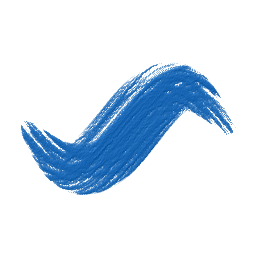
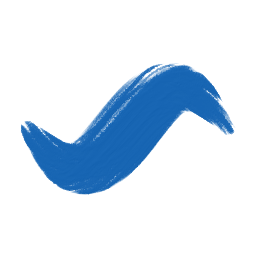
feat(Painter 11/10, família C): os presets do óleo com os valores do dono e o Spacing do Tuning fora do painel
- Oil Bristle · Acrylic Round · Express Oil com os valores afinados a olho pelo dono contra o Rebelle (cerdas,
  pigmento, relevo, opacidade, água, Spacing do Stroke 0,01); Receita.spacing; os outros nove ao byte
- Knob::Spacing → Hidden (no produto a distância entre marcas é o Spacing do Stroke; 8 × 2 = imagem idêntica,
  0,5 = 0,1 %); o rótulo órfão sai do i18n; o painel conta 36
- midias_de_fabrica: saem as três métricas que reprovavam os valores do dono (decisão dele, 18 §2)
- Bugs #48 (o relevo some ao trocar de pincel) e #49 (azul sobre azul verde no soltar) registados
- pranchas PH2D × Rebelle (comparar_oleo/) + ferramentas/prancha_comparar.sh; prompt 22; typos: metricas

diff --git a/crates/ph2d-tool-painter/tests/it/receitas_de_fabrica.rs b/crates/ph2d-tool-painter/tests/it/receitas_de_fabrica.rs
@@ -47,6 +47,8 @@ pub struct Receita {
     pub extras: &'static [(&'static str, f64)],
     /// O grão do pincel (`BrushSpec::texture`, que toma o lugar das cerdas — W2.4): o tipo e o lado.
     pub grao: Option<(&'static str, f64)>,
+    /// O Spacing do Stroke (`BrushSpec::spacing`, fracção do diâmetro) que o preset FIXA; `None` = o padrão.
+    pub spacing: Option<f64>,
 }
 
 /// A tela direita, com o dial guardado no meio e para baixo (para quando o artista a ligar).
@@ -75,6 +77,7 @@ pub const RECEITAS: [Receita; PRESETS_DE_FABRICA] = [
         size_px: None,
         extras: &[],
         grao: None,
+        spacing: None,
     },
     Receita {
         meio: "Watercolor",
@@ -94,6 +97,7 @@ pub const RECEITAS: [Receita; PRESETS_DE_FABRICA] = [
         size_px: None,
         extras: &[],
         grao: None,
+        spacing: None,
     },
     Receita {
         meio: "Watercolor",
@@ -113,6 +117,7 @@ pub const RECEITAS: [Receita; PRESETS_DE_FABRICA] = [
         size_px: None,
         extras: &[],
         grao: None,
+        spacing: None,
     },
     Receita {
         meio: "Watercolor",
@@ -136,6 +141,7 @@ pub const RECEITAS: [Receita; PRESETS_DE_FABRICA] = [
         size_px: None,
         extras: &[],
         grao: None,
+        spacing: None,
     },
     // ⭐ O 1.º da Fase C (prompt 17, 05 §4b «Presets de todas as mídias»): o Liner do Rebelle
     // (`Watercolor/Liner`: duro, carregado, papel 0,10 — o grão quase não fura, 28,86 px). Medido contra
@@ -158,6 +164,7 @@ pub const RECEITAS: [Receita; PRESETS_DE_FABRICA] = [
         size_px: Some(29.0),
         extras: &[],
         grao: None,
+        spacing: None,
     },
     // ⭐ O 2.º lote (11/10, depois da reavaliação pedida pelo dono — 18 §3: pigmento alto, o relevo de volta
     // e o grão no lugar das cerdas). Cada um medido contra a foto do seu preset-oráculo do Rebelle, seco, à
@@ -167,7 +174,7 @@ pub const RECEITAS: [Receita; PRESETS_DE_FABRICA] = [
         meio: "Oil",
         grupo: "Bristle",
         nome: "Oil Bristle",
-        water: 0.05,
+        water: 0.1,
         opacity: 1.0,
         pigment: 2000.0,
         pickup: 1.0,
@@ -175,12 +182,13 @@ pub const RECEITAS: [Receita; PRESETS_DE_FABRICA] = [
         evaporation: 1.0,
         edge: 0.0,
         tilt: DIREITA,
-        bristle_size: 4.0,
-        bristle_count: 1500.0,
+        bristle_size: 1.0,
+        bristle_count: 2000.0,
         hardness: 0.9,
         size_px: Some(103.0),
-        extras: &[("felt", 0.0), ("bristleStrength", 2.0), ("emboss", 2.0)],
+        extras: &[("felt", 0.0), ("bristleStrength", 2.0), ("emboss", 0.7)],
         grao: None,
+        spacing: Some(0.01),
     },
     // Oil & Acrylic › Round Hard (a acrílica do Rebelle é esta ferramenta).
     Receita {
@@ -188,39 +196,41 @@ pub const RECEITAS: [Receita; PRESETS_DE_FABRICA] = [
         grupo: "Round",
         nome: "Acrylic Round",
         water: 0.05,
-        opacity: 1.0,
-        pigment: 2000.0,
+        opacity: 0.6,
+        pigment: 500.0,
         pickup: 1.0,
         gate: 0.0,
         evaporation: 1.0,
         edge: 0.0,
         tilt: DIREITA,
-        bristle_size: 3.0,
-        bristle_count: 800.0,
+        bristle_size: 0.5,
+        bristle_count: 4000.0,
         hardness: 0.5,
         size_px: Some(78.0),
-        extras: &[("felt", 0.0), ("bristleStrength", 4.0)],
+        extras: &[("felt", 0.0), ("bristleStrength", 2.0)],
         grao: None,
+        spacing: Some(0.01),
     },
     // Express Oil › Hairy: cerdas finas, menos tinta.
     Receita {
         meio: "ExpressOil",
         grupo: "Round",
         nome: "Express Oil",
-        water: 0.1,
-        opacity: 1.0,
-        pigment: 800.0,
+        water: 0.09,
+        opacity: 0.6,
+        pigment: 750.0,
         pickup: 1.0,
         gate: 0.0,
         evaporation: 1.0,
         edge: 0.0,
         tilt: DIREITA,
-        bristle_size: 1.2,
+        bristle_size: 2.0,
         bristle_count: 900.0,
         hardness: 0.9,
         size_px: Some(64.0),
-        extras: &[("felt", 0.0), ("bristleStrength", 4.0), ("emboss", 1.0)],
+        extras: &[("felt", 0.0), ("bristleStrength", 2.0), ("emboss", 0.2)],
         grao: None,
+        spacing: Some(0.01),
     },
     // Pencil › Graphite 8B: sem água, o grão do papel a abrir na orla.
     Receita {
@@ -241,6 +251,7 @@ pub const RECEITAS: [Receita; PRESETS_DE_FABRICA] = [
         size_px: Some(6.5),
         extras: &[("felt", 0.0)],
         grao: Some(("Noise", 0.4)),
+        spacing: None,
     },
     // Pencil › Charcoal: pouca carga, orla larga.
     Receita {
@@ -261,6 +272,7 @@ pub const RECEITAS: [Receita; PRESETS_DE_FABRICA] = [
         size_px: Some(37.0),
         extras: &[("felt", 0.0)],
         grao: Some(("Noise", 0.15)),
+        spacing: None,
     },
     // Pastel › Pastel Dry › Dry Thin: grão fino e regular.
     Receita {
@@ -281,6 +293,7 @@ pub const RECEITAS: [Receita; PRESETS_DE_FABRICA] = [
         size_px: Some(29.0),
         extras: &[("felt", 0.0)],
         grao: Some(("Noise", 0.4)),
+        spacing: None,
     },
     // Pastel › Pastel Oil › Oil Pastel 2 (o giz de cera): grão mais fino e mais carregado que o seco (o
     // Voronoi passava as métricas, mas a largura variava até 42 % com a posição — medido 11/10).
@@ -302,5 +315,6 @@ pub const RECEITAS: [Receita; PRESETS_DE_FABRICA] = [
         size_px: Some(77.0),
         extras: &[("felt", 0.0)],
         grao: Some(("Noise", 0.15)),
+        spacing: None,
     },
 ];

diff --git a/crates/ph2d-tool-painter/tests/it/midias_de_fabrica.rs b/crates/ph2d-tool-painter/tests/it/midias_de_fabrica.rs
@@ -59,12 +59,15 @@ struct Midia {
 
 use Metrica::{Borda, Cobertura, Orla, Textura};
 
+// ⚠ Os três do óleo levam os valores que o DONO afinou a olho contra o Rebelle (11/10, «vamos deixar esses
+// valores»); a régua reprovava Textura do Oil Bristle (8,46 contra 5,86) e da Acrylic Round (30,4 contra 3,13)
+// e a Borda do Express Oil (0,66 contra 0,80) — saíram daqui, a régua não mede o que o olho dele vê (18 §2).
 #[rustfmt::skip]
 const MIDIAS: [Midia; 8] = [
     Midia { preset: "Wet Liner", foto: "wcliner", raio: 19.0, metricas: &[(Cobertura, 0.653), (Textura, 1.708)] },
-    Midia { preset: "Oil Bristle", foto: "oil", raio: 20.5, metricas: &[(Cobertura, 0.909), (Textura, 5.861), (Borda, 0.872)] },
-    Midia { preset: "Acrylic Round", foto: "oilround", raio: 19.5, metricas: &[(Cobertura, 0.880), (Textura, 3.133), (Borda, 0.595)] },
-    Midia { preset: "Express Oil", foto: "express", raio: 21.0, metricas: &[(Cobertura, 0.700), (Borda, 0.796)] },
+    Midia { preset: "Oil Bristle", foto: "oil", raio: 20.5, metricas: &[(Cobertura, 0.909), (Borda, 0.872)] },
+    Midia { preset: "Acrylic Round", foto: "oilround", raio: 19.5, metricas: &[(Cobertura, 0.880), (Borda, 0.595)] },
+    Midia { preset: "Express Oil", foto: "express", raio: 21.0, metricas: &[(Cobertura, 0.700)] },
     Midia { preset: "Graphite 8B", foto: "pencil", raio: 15.0, metricas: &[(Cobertura, 0.798), (Textura, 9.093), (Borda, 0.320), (Orla, 7.0)] },
     Midia { preset: "Charcoal", foto: "charcoal", raio: 10.5, metricas: &[(Cobertura, 0.384), (Borda, 0.378), (Orla, 15.0)] },
     Midia { preset: "Soft Pastel", foto: "pastel", raio: 8.5, metricas: &[(Cobertura, 0.752), (Borda, 0.443), (Orla, 6.0)] },

diff --git a/crates/ph2d-panel-wet-tuning/src/rows.rs b/crates/ph2d-panel-wet-tuning/src/rows.rs
@@ -184,15 +184,16 @@ mod tests {
         }
     }
 
-    /// 37 visible knobs (14 Paint — incl. Staining, promoted out of Hidden
+    /// 36 visible knobs (13 Paint — incl. Staining, promoted out of Hidden
     /// by doc 23 — + 7 Water + 10 Physics + 5 Tools — incl. the doc-23
     /// Rewet lift — + 1 Relief) — the registry's visible surface, whole. O PAPER (6) saiu
-    /// na W1e (F2); do grupo dele só o relevo da tinta (Emboss) voltou, a 11/10.
+    /// na W1e (F2); do grupo dele só o relevo da tinta (Emboss) voltou, a 11/10. O Spacing saiu
+    /// para o Hidden a 11/10 (o do pincel é o do Stroke).
     #[test]
     fn every_visible_knob_has_a_row() {
-        assert_eq!(rows().len(), 37);
+        assert_eq!(rows().len(), 36);
         for g in [
-            (KnobGroup::Paint, 14),
+            (KnobGroup::Paint, 13),
             (KnobGroup::Water, 7),
             (KnobGroup::Physics, 10),
             (KnobGroup::Tools, 5),

diff --git a/crates/ph2d-i18n/src/lib.rs b/crates/ph2d-i18n/src/lib.rs
@@ -290,7 +290,6 @@ fn tr_ingles(key: &str) -> &'static str {
         "panel.wet_tuning.knob.intensity" => "Intensity",
         "panel.wet_tuning.knob.bristleStrength" => "Bristle strength",
         "panel.wet_tuning.knob.bristleSize" => "Bristle size",
-        "panel.wet_tuning.knob.spacing" => "Spacing",
         "panel.wet_tuning.knob.tipClean" => "Tip clean",
         "panel.wet_tuning.knob.blendForce" => "Blend force",
         "panel.wet_tuning.knob.gateSaturation" => "Gate saturation",

diff --git a/crates/ph2d-wet-paint/src/tuning/defs.rs b/crates/ph2d-wet-paint/src/tuning/defs.rs
@@ -131,9 +131,11 @@ pub const KNOB_DEFS: [KnobDef; KNOB_COUNT] = [
         1.0,
         Some(Rebuild::Brush),
     ),
+    // Oculto (dono 11/10): no pincel do produto a distância entre marcas é o Spacing do Stroke; este só
+    // rola a janela do rasto — 8 contra 2 dá a imagem idêntica, 0,5 muda 0,1 % (handoff COMPILADOR §7).
     k(
         Knob::Spacing,
-        KnobGroup::Paint,
+        KnobGroup::Hidden,
         "spacing",
         0.5,
         8.0,

diff --git a/crates/ph2d-tool-painter/tests/it/presets_de_fabrica.rs b/crates/ph2d-tool-painter/tests/it/presets_de_fabrica.rs
@@ -52,6 +52,14 @@ fn parametros(r: &Receita) -> Parametros {
             .is_some(),
         "campo hardness existe"
     );
+    if let Some(s) = r.spacing {
+        assert!(
+            p.brush
+                .insert("spacing".to_owned(), serde_json::json!(s))
+                .is_some(),
+            "campo spacing existe"
+        );
+    }
     if let Some((kind, lado)) = r.grao {
         assert!(
             p.brush

diff --git a/docs/Painter/NewFeaturesWetPaint/22_PROMPT_janela_relevo_e_verde.md b/docs/Painter/NewFeaturesWetPaint/22_PROMPT_janela_relevo_e_verde.md
@@ -1,0 +1,89 @@
+TROCA DE AGENTE — line/PainterWatercolor («Wet Painter»): o RELEVO que some (#48), o VERDE no soltar (#49) e a
+família C (óleo · acrílica) a seguir.
+
+O dono escolheu a família C (óleo, acrílica) para começar (11/10) e afinou a olho os três presets dela contra o
+Rebelle — os valores dele já estão nos ficheiros de fábrica e mandam («vamos deixar esses valores e seguir»).
+No mesmo smoke ele achou dois defeitos, que vêm PRIMEIRO.
+
+Leia SÓ: o handoff `docs/Painter/handoffs/HANDOFF_CONTINUACAO_line_PainterWatercolor_2026-10-11_COMPILADOR.md`
+(R1–R9 no topo, valem a janela inteira; §7 = o que mudou depois dele) e os Bugs **#48** e **#49** em
+`docs/Painter/BUGS_painter.md`. Não releia o 05 nem o histórico da linha.
+
+## Fase 0 — onde você está
+
+1. `cd /home/enio/Documentos/Projetos/PH2D/Worktrees/line-PainterWatercolor && pwd && git branch --show-current`
+   → `line/PainterWatercolor`. Outra coisa: PARE e reporte.
+2. `git log --oneline -3 && git status --short` → a ponta é o commit dos presets do dono (sobre `d3e9d8f0d`);
+   árvore limpa. `git fetch -q origin`; se o `main` andou: `git rebase main` (conflito fora dos seus ficheiros: PARE).
+3. `bash scripts/btrfs-health.sh` · `bash scripts/agent-loop-profile.sh 10` → os números de ANTES vão para o handoff.
+4. Shell `fish`/`zsh`: laços e listas de caminhos num `bash -c '…'`. `export CARGO_INCREMENTAL=0` em todo `ci-test`.
+
+## O que mudou depois do handoff (não refaça)
+
+- **Spacing do Tuning OCULTO** (`KnobGroup::Hidden`): no pincel do produto a distância entre marcas é o Spacing
+  do STROKE (`BrushSpec::spacing`, fracção do diâmetro); o do Tuning só rola a janela do rasto — medido: 8 contra
+  2 = imagem idêntica, 0,5 = 0,1 % dos pixels. O motor guarda-o (os presets antigos abrem iguais).
+- **Presets do dono** (`tests/it/receitas_de_fabrica.rs`, regenerados por `PH2D_REGERA_PRESETS=1 …
+  gera_os_presets_de_fabrica`; os outros nove ficaram ao byte): Oil Bristle water 0,1 · emboss 0,7 · cerdas 2000 ·
+  força 2 · tamanho 1 · pigmento 2000 · spacing 0,01 · Acrylic Round opacity 0,6 · pigmento 500 · força 2 ·
+  cerdas 4000 · tamanho 0,5 · spacing 0,01 · Express Oil water 0,09 · opacity 0,6 · pigmento 750 · força 2 ·
+  tamanho 2 · cerdas 900 · emboss 0,2 · spacing 0,01. A `Receita` ganhou `spacing: Option<f64>`.
+- **`midias_de_fabrica`:** saíram, por decisão do dono, a Textura do Oil Bristle (8,46 contra 5,86) e da Acrylic
+  (30,4 contra 3,13) e a Borda do Express Oil (0,66 contra 0,80) — a régua não mede o que o olho dele vê (18 §2).
+- **⚠ O que confundiu o dono:** com «On switch: Keep volumes…» o painel guarda Size/Water/Opacity do pincel
+  ANTERIOR ao trocar de preset — ele leu 0,048/1 no Express Oil e achou que os valores não tinham entrado. E o
+  app lê os presets da pasta onde foi compilado (`CARGO_MANIFEST_DIR/../../assets/brushes`): o smoke corre DESTA
+  worktree. Pergunte ao dono se o padrão «Keep volumes» é o que ele quer (não mude sem ele).
+- **Pranchas** PH2D × Rebelle com grelha A–J × 1–6: `docs/Painter/NewFeaturesWetPaint/comparar_oleo/` (antes) e
+  `…/novos/` (valores do dono); o script está na §7 do handoff.
+
+## A tarefa, por ordem
+
+**1. Bug #48 — o relevo de TODA a tinta some ao trocar para um pincel sem relevo** (o dono viu-o duas vezes).
+Causa lida (por medir): o Emboss é um knob do RENDER aplicado com o valor do pincel de AGORA. Primeiro o portão
+vermelho: pinta com Oil Bristle, troca para Wet Round, pinta ao lado → o 1.º traço tem de guardar o relevo ao
+byte. Cura no mecanismo: o relevo viaja com a tinta (uma altura por célula escrita no depósito, como o `impasto`
+do Impasto); o render lê a altura. Prove que um pincel SEM relevo não muda um byte do que já estava na tela, e
+que os portões ao byte (`a_miniatura…`, `com_as_opcoes_desligadas…`, `smooth_edges_no_zero…`,
+`os_outros_meios_nao_mudam`) mudam só onde há relevo — se mudarem, mostre ao dono antes de regenerar.
+
+**2. Bug #49 — azul escuro sobre azul claro fica VERDE no soltar do rato, com *Pigment mixing* desligado.**
+Durante o traço o azul está certo; só no mouse up vira verde; «depois do Undo o problema sumiu». Pergunte ao dono,
+na 1.ª mensagem, se os traços SEGUINTES deixaram de ficar verdes depois do Undo (a resposta separa estado da
+sessão de lei do soltar). Reproduza pela porta do produto: traço escuro sobre claro, foto antes e depois do
+`pointer_up`, caixa ligada e desligada. Suspeita (por medir): o caminho do soltar (commit à camada / Glaze /
+Staining do secar) mistura por K–M sem ler a caixa. `/pd-bug-causa`: mecanismo, medição, e o portão que estava
+verde.
+
+**3. Família C — o que o dono vê nas pranchas novas** (só depois de 1 e 2; mostre a prancha antes e depois):
+- Oil Bristle está perto; falta o pincel CHATO ser fino quando anda de lado (o traço vertical do Rebelle, D4–D6).
+- Express Oil está mais OPACO e mais LISO que o do Rebelle (o dele é claro, com falhas entre tufos).
+- Acrylic Round está RALA (riscos finos); a do Rebelle é corpo cheio.
+- Pista vista nas fotos: o óleo do Rebelle tem cerdas de DUAS espessuras (finas e grossas); o nosso, uma.
+  ⛔ Os ficheiros `.rebelle-brush.png` do Rebelle trazem os parâmetros legíveis, mas são de outro motor (~180
+  números de «partículas»), sem correspondência com os nossos knobs, e a EULA do teste é uso pessoal: servem de
+  PISTA, nunca de receita; as texturas dele não se copiam (`/pd-cleanroom` se for preciso ir além da foto).
+- Os valores do dono são o ponto de partida: mudar um deles é decisão dele (mostre a prancha e pergunte).
+
+R1: ~150 chamadas. Se não fechar, feche no passo em que está, com o portão e os números.
+
+## O que NÃO é desta janela (registe, não toque)
+
+O R9 que sobra (camadas 44,7 s · largura 24,7 s · mídias 14,8 s) · as famílias A e B · a tinta/caneta (dono) ·
+o Staining com K–M (dono) · a falha de carga da Luz 2D no `nextest-impacted` (`o_rebote_nao_depende_da_oitava`,
+outra linha).
+
+## Fecho
+
+- Bateria pelo `verificador`, em série, `loadavg` ao lado: a cerca · `ph2d-wet-paint` em `dev` E em `ci-test` ·
+  `ph2d-tool-painter` INTEIRO (lib + `--test it`) em `dev` E em `ci-test` · censos (`ph2d-panel-registry-init
+  --features panel-painter-layers,panel-flip,panel-flip-frames,panel-wet-tuning`, `ph2d-panel-painter-layers`,
+  `ph2d-panel-wet-tuning`) · `ph2d-app-painter --features panel-painter-layers` · fmt e clippy `--all-targets
+  -D warnings` nas crates tocadas · typos · tecto de 700 linhas · `scripts/nextest-impacted.sh` 1×.
+- `bash scripts/agent-loop-profile.sh 10`; `rm -rf target/*/incremental`; apague os `CARGO_TARGET_DIR` da scratchpad.
+- Handoff de continuação ≤ 8 KB com as R1–R9 no topo; entrada curta no `05d_estado_mistura_II_e_presets.md`; os
+  Bugs #48/#49 fechados vão para o índice (`BUGS_painter_fechados_41_a_46.md`, uma linha com o MECANISMO). Commit
+  por caminho (`--no-verify`, `git add` explícito para os novos). ⛔ Nunca push.
+- Ao dono, curto e sem jargão, com SMOKE em passos numerados (o comando com o `cd` DESTA worktree e
+  `--profile smoke` · onde clicar, com o nome da tela · o que tem de acontecer · como saber que deu errado),
+  porque os dois defeitos são coisas que ele vê.

diff --git a/docs/Painter/BUGS_painter.md b/docs/Painter/BUGS_painter.md
@@ -3,7 +3,8 @@
 > **O que este doc é:** o registro dos bugs do Painter cuja **causa enganava** — aqueles em que a
 > aparência levou a vários rounds na pista errada. Não é o log de todo fix (isso o git já faz).
 >
-> **O que está VIVO aqui:** só o que ainda está **ABERTO** — o Bug **#47** (o Shape Noise no Wet Paint), o Bug **#11** (o **#15** fechou, medido em
+> **O que está VIVO aqui:** só o que ainda está **ABERTO** — o Bug **#48** (o relevo some ao trocar de pincel), o
+> **#49** (azul sobre azul fica verde no soltar), o Bug **#47** (o Shape Noise no Wet Paint), o Bug **#11** (o **#15** fechou, medido em
 > 2026-10-03, e o texto dele fica como registo), a **tinta
 > EMPURRADA** do #14, os dois achados abertos da varredura do #13, a **cegueira do #25** sob Simetria/Spray/Rough,
 > (o texto do #15 mudou-se em 2026-10-11 para o pedaço [#41–#46](BUGS_painter_fechados_41_a_46.md)),
@@ -111,6 +112,26 @@ a esse degrau. A cura é interpolar gradientes por amostra (o análogo das norma
 o custo por medir.
 
 ---
+
+## Bug #48 — Wet Paint: o relevo de TODA a tinta some ao trocar para um pincel sem relevo (ABERTO, dono 11/10)
+
+**Sintoma (smoke do dono, 11/10, repetido no mesmo dia):** *«quando pinta com relevo e depois muda o pincel para
+um que não tem relevo, o relevo de todos desaparece»*. **Causa lida no código (não medida):** o Emboss é um knob do
+RENDER aplicado a toda a tinta da sessão com o valor do pincel de AGORA (`render.rs`, `p.k(Knob::Emboss)`), não uma
+propriedade guardada com a tinta. **Cura proposta:** o relevo viaja com a massa — uma altura por célula escrita no
+depósito (como o `impasto` do Impasto), e o render lê a altura, não o knob. Prova: portão «pinta com relevo, troca
+para Wet Round, pinta ao lado: o 1.º traço guarda o relevo ao byte».
+
+## Bug #49 — Wet Paint: azul escuro sobre azul claro fica VERDE no soltar do rato, com Pigment Mixing desligado (ABERTO, dono 11/10)
+
+**Sintoma (dono, 11/10, sem foto do verde):** azul escuro sobre azul claro; durante o traço o azul está certo
+(as duas capturas mostram o traço escuro limpo); **só no mouse up** a cor vira verde. *Pigment mixing* DESLIGADO.
+*«Depois do Undo o problema sumiu»* (por esclarecer: se os traços seguintes deixaram de ficar verdes). **Pistas, por
+medir:** azul + azul → verde é a assinatura da mistura SUBTRACTIVA (K–M) entre um azul-ciano e um azul-escuro ⇒
+suspeita de que o caminho do soltar (o commit da tinta à camada, ou o Glaze/Staining do secar) misture por K–M
+sem ler a caixa *Pigment mixing* — preview ≠ documento. O «sumiu depois do Undo» aponta para estado da sessão
+(um modo ou cache armado pelo traço anterior) que o Undo repõe. Reproduzir antes de ler: o traço escuro sobre
+claro pela porta do produto, foto antes e depois do `pointer_up`, com a caixa ligada e desligada.
 
 ## Bug #24 — Composite Brush: os RETÂNGULOS do re-carimbo (2026-09-21 — as DUAS causas FECHADAS, um resíduo ABERTO)
 

diff --git a/docs/Painter/handoffs/HANDOFF_CONTINUACAO_line_PainterWatercolor_2026-10-11_COMPILADOR.md b/docs/Painter/handoffs/HANDOFF_CONTINUACAO_line_PainterWatercolor_2026-10-11_COMPILADOR.md
@@ -90,3 +90,11 @@ e em `ci-test` (239 s) · censos 134 · 237 · 17 ✓ · `ph2d-app-painter` 103/
 suíte cheia), sozinha em `ci-test` 3/3 a `load` 20–24 — flake de carga de OUTRA linha, ainda fora da tabela do
 `FLAKES_DE_CARGA.md` (registe quem é dono da Luz 2D). Perfil do laço: paralelismo 1,12 → 1,11 · test:check
 2,4 → 2,6 × · Edit 50 → 46 % · contexto/passo 245 → 282 mil. ⇒ **pronta para o `main`** no que é desta linha.
+
+## §7 — Depois do fecho (a mesma janela, ordens do dono)
+
+Spacing do Tuning → `Hidden` (8 × 2 = imagem idêntica; 0,5 = 0,1 %) · os presets do óleo com os valores do dono
+(`receitas_de_fabrica.rs`, `Receita.spacing`) e a `midias_de_fabrica` sem as três métricas que os reprovavam ·
+Bugs #48 e #49 registados · pranchas `comparar_oleo/` por `ferramentas/prancha_comparar.sh <dir dos midia_*.ppm do
+PH2D_SONDA_OUT da midias_de_fabrica> <saída> "<preset>|<foto>|<título>"`. Detalhe e tarefa:
+[prompt 22](../NewFeaturesWetPaint/22_PROMPT_janela_relevo_e_verde.md).

diff --git a/docs/Painter/NewFeaturesWetPaint/05d_estado_mistura_II_e_presets.md b/docs/Painter/NewFeaturesWetPaint/05d_estado_mistura_II_e_presets.md
@@ -275,3 +275,9 @@
   `dev` e `release`, nenhum bit mudou. Censo do código gerado: nenhum outro laço vectorizado com a máscara. O
   `sedimenta` ganhou o portão série × paralelo que faltava. Reprodutor de 40 linhas pronto para o dono decidir se
   reporta. [handoff](../handoffs/HANDOFF_CONTINUACAO_line_PainterWatercolor_2026-10-11_COMPILADOR.md).
+
+- ✅ **Família C: os valores do DONO nos três presets do óleo (11/10).** O dono afinou a olho contra o Rebelle o Oil
+  Bristle, a Acrylic Round e o Express Oil (cerdas, pigmento, relevo, Spacing do Stroke 0,01) — ficam («vamos deixar
+  esses valores e seguir»); a régua das mídias perdeu as três métricas que os reprovavam. O Spacing do Tuning saiu do
+  painel (o do pincel é o do Stroke). Achados no smoke, ABERTOS: o relevo que some ao trocar de pincel (#48) e o azul
+  que fica verde no soltar (#49) — 1.º e 2.º da [janela 22](22_PROMPT_janela_relevo_e_verde.md).
